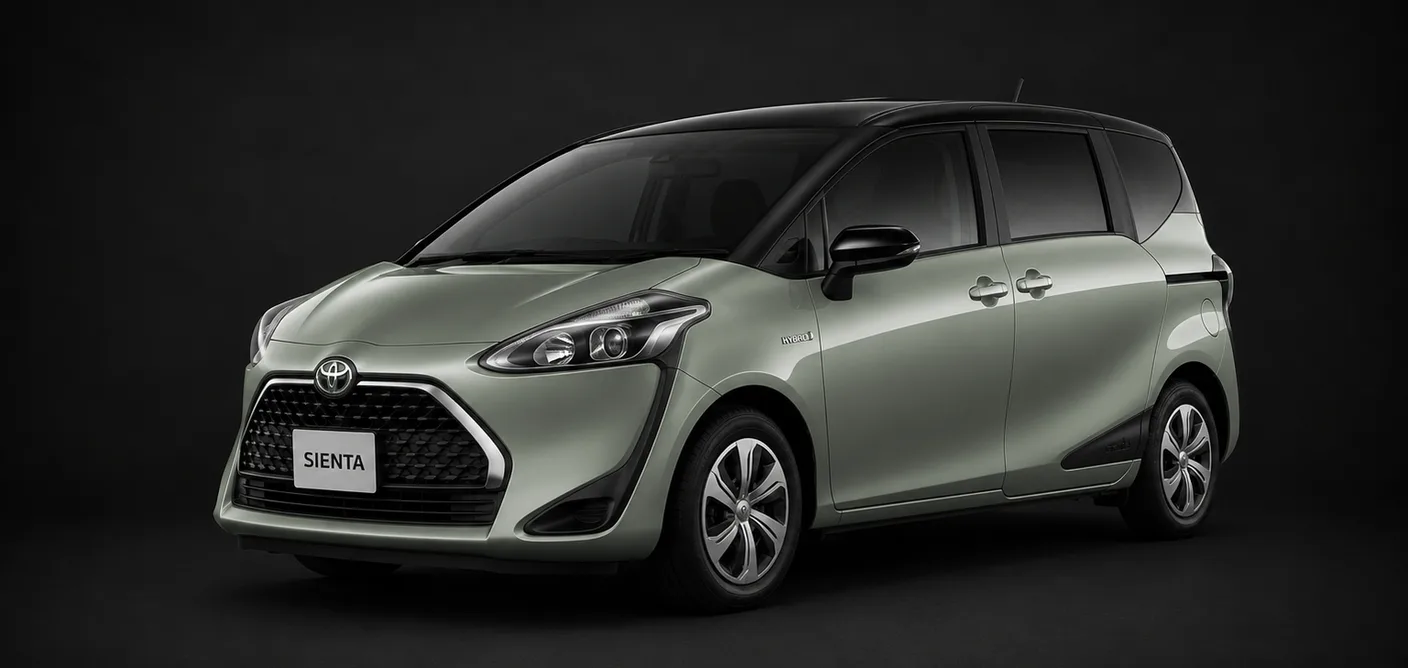
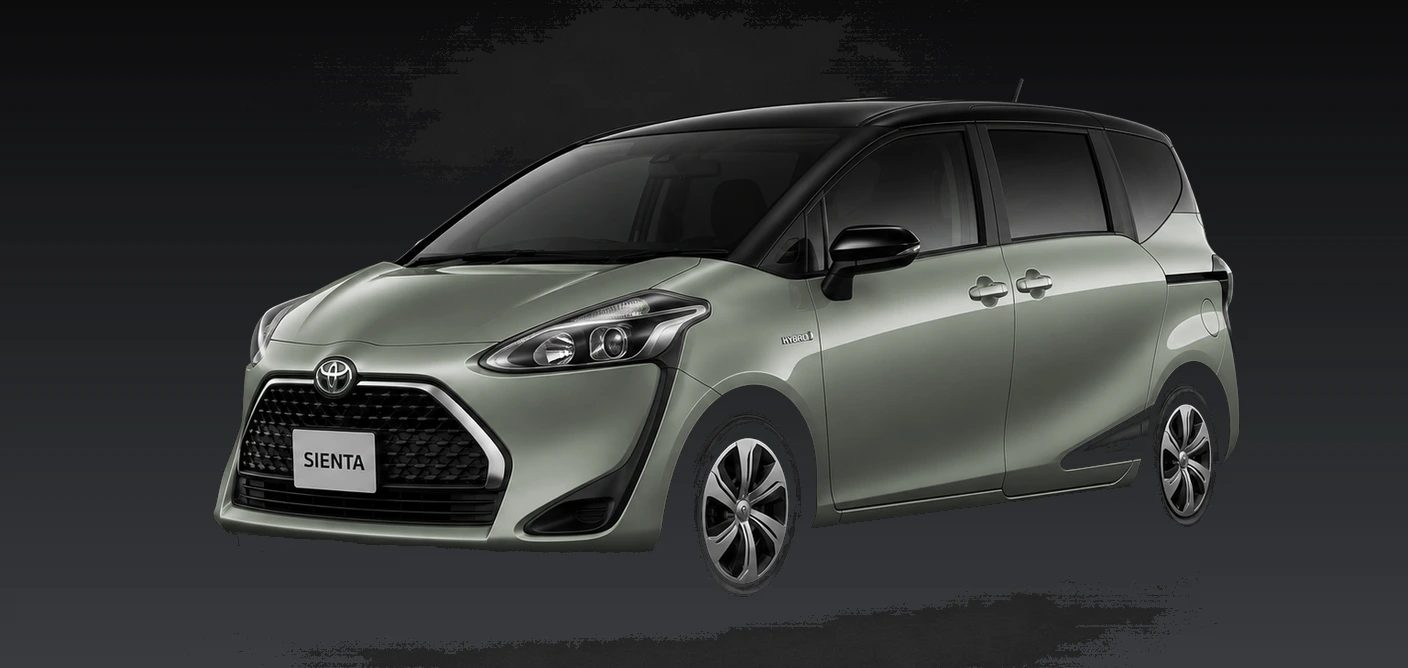
feat: quality pass - unify SOLIO/SIENTA/DELICA studio backgrounds, Home intro copy, maker heading weight, Timeline NOW badge
- SOLIO (4 gens) and SIENTA (3 gens): backgrounds were flat/near-black
  with no gradient, unlike VOXY/SERENA/STEPWGN's measured vertical
  brightening formula. Unified using border flood-fill to separate car
  from background (a plain per-pixel color threshold was tried first
  and corrupted the car body; reverted, replaced with flood-fill, which
  can't misclassify a pixel unless it's topologically connected to the
  border). Verified zero byte changes inside the protected car region
  on every file.
- DELICA gen1/gen2: same technique, background-only brightness lift
  (car pixels untouched, verified) per explicit follow-up instruction,
  since the real-photo background measured noticeably darker/flatter
  than VOXY's own.
- Home: added a one-line intro ("Explore every generation, side by
  side.") between the All Cars heading and count.
- Maker headings (TOYOTA/NISSAN/...): raised opacity, tightened
  tracking so the existing bold weight actually reads as bold instead
  of thin/airy.
- Timeline: added a persistent "NOW" badge on the actual latest-
  generation card, independent of aria-current (which follows whichever
  card is currently being viewed) -- keeps a cue for "this is current"
  even while browsing older generations.

Hero image unification (VOXY as baseline) was investigated but not
applied: background-only stats showed Delica/Sienta hero genuinely
darker than VOXY's, but Hero's atmospheric/fog lighting doesn't fit the
[…]

Changed region(s): [[0.0, 0.4192, 1.0, 1.0]]

diff --git a/src/cars/delica-d5.js b/src/cars/delica-d5.js
@@ -28,18 +28,29 @@
 // background photos (see git history on this block for the full
 // account of what each round got wrong). All of that is now moot: the
 // user supplied proper black-studio source photos directly
-// (デリカ初代.png / デリカ2代目.png), so gen1-2007/gen2-2019 are a pure
-// format conversion of those -- resized to fit the shared 1408x668
-// canvas by height (no crop; the source's 1.50:1 aspect is narrower
-// than the canvas's 2.11:1), letterboxed with the source's own edge
-// color, then WebP-encoded at a quality high enough to be visually
-// lossless. No background removal, no floor/shadow synthesis, no
-// masking, no noise, no color/level/tone changes of any kind -- per
-// explicit instruction, these two files are complete as supplied and
-// must not be re-edited. Do not resurrect the reconstruction approach
-// below for any future vehicle that already has a proper black-studio
-// source photo; it only applies when the source has the wrong
-// background and needs one built from nothing.
+// (デリカ初代.png / デリカ2代目.png), so gen1-2007/gen2-2019 started as a
+// pure format conversion of those -- resized to fit the shared
+// 1408x668 canvas by height (no crop; the source's 1.50:1 aspect is
+// narrower than the canvas's 2.11:1), letterboxed with the source's
+// own edge color, WebP-encoded at a visually-lossless quality. Do not
+// resurrect the reconstruction approach below for any future vehicle
+// that already has a proper black-studio source photo; it only applies
+// when the source has the wrong background and needs one built from
+// nothing.
+//
+// (9, 2026-08-01) The format conversion above was left completely
+// pixel-untouched per explicit instruction -- but measured against
+// VOXY's own background (edge-column sampling), Delica's real photo
+// background was noticeably darker and flatter (roughly half VOXY's
+// brightness, no vertical gradient), a real "different studio" gap.
+// Per updated explicit instruction, brightened the background ONLY
+// (same vertical gradient target as solio.js/sienta.js, same border-
+// flood-fill car/background separation -- see that file's comment for
+// the full technique writeup) -- car body pixels are provably
+// untouched (post-edit diff against the pre-round-9 file showed zero
+// byte changes inside the flood-fill-protected region). The car
+// photography itself (paint, reflections, shape) is still exactly as
+// supplied; only the black level/gradient behind it changed.
 //
 // annotations: re-derived (2026-08-01) against the new photos above --
 // the car sits smaller and differently centered in frame than the old

diff --git a/src/cars/solio.js b/src/cars/solio.js
@@ -10,6 +10,27 @@
 // change for any of the four generations was sourced with enough
 // confidence (date + concrete content) to publish -- a gap to close in a
 // future pass, not filled with invented history.
+//
+// gen1-4 images (2026-08-01): background unified with VOXY/SERENA/
+// STEPWGN's own measured studio formula -- those three, sampled at
+// pure-background edge columns, all showed a purely vertical (not
+// radial; left/right edges matched) brightening gradient from near-
+// black at the top to a moderate mid-gray at the bottom. SOLIO's own
+// background measured flat 0-24 at every row (no gradient at all),
+// which is what read as a different, cheaper-looking studio.
+// Car/background separation used border flood-fill (seed every border
+// pixel, grow through neighbors within a per-row color tolerance of a
+// guaranteed-background column), not a per-pixel color-distance
+// threshold -- the first attempt at this exact fix used a plain
+// threshold and it corrupted the car body (dark shadow/tint pixels
+// inside the silhouette matched the background tone by coincidence and
+// got overwritten). Flood fill can't make that mistake: a pixel only
+// counts as background if there's a continuous background-colored path
+// connecting it to the image border, so an isolated dark patch inside
+// the car is topologically unreachable even when its raw color matches.
+// Verified per image: a red-tinted mask preview showed the full car
+// silhouette protected before any pixel was touched, and a post-edit
+// diff confirmed zero byte changes inside the protected region.
 const generations = [
   {
     numeral: 'I',

diff --git a/src/home.css b/src/home.css
@@ -144,14 +144,27 @@ body { margin: 0; background: #0b0c0e; }
   margin: 0; font-family: 'Inter', sans-serif; font-size: clamp(22px, 4.5vw, 28px);
   font-weight: 600; letter-spacing: -.015em;
 }
+/* Sits between the heading and the live count -- same weight/size
+   register as .about-text (a quiet, secondary line) rather than the
+   heading's own display weight, so it reads as connective copy, not a
+   second title. */
+.all-cars-intro {
+  margin: 10px 0 0; max-width: 420px; font-weight: 300; font-size: 14.5px;
+  line-height: 1.6; opacity: .6; letter-spacing: .01em;
+}
 .all-cars-count {
-  margin: 8px 0 0; font-family: 'Inter', sans-serif; font-size: 12px; font-weight: 500;
+  margin: 10px 0 0; font-family: 'Inter', sans-serif; font-size: 12px; font-weight: 500;
   letter-spacing: .04em; opacity: .45;
 }
 .maker-groups { display: flex; flex-direction: column; gap: 40px; }
+/* .6 opacity + .16em tracking read as thin/airy despite the 700 weight --
+   wide tracking dilutes a bold face's own visual weight. Tightened
+   tracking and raised opacity (contrast, not a heavier font-weight)
+   for a denser, more premium mark -- still whisper-quiet next to the
+   photography, just no longer reading as fragile. */
 .maker-name {
   margin: 0 0 16px; font-family: 'Inter', sans-serif; font-size: 14px; font-weight: 700;
-  letter-spacing: .16em; text-transform: uppercase; opacity: .6;
+  letter-spacing: .12em; text-transform: uppercase; opacity: .78;
 }
 .maker-cars { display: grid; grid-template-columns: repeat(2, 1fr); gap: 12px; }
 .mini-card {

diff --git a/src/car-page.css b/src/car-page.css
@@ -120,6 +120,23 @@ body { margin: 0; background: #0b0c0e; }
 }
 .timeline-item[aria-current="true"] .timeline-thumb img { filter: grayscale(0) brightness(1.05) saturate(1.15); }
 
+/* A quiet, permanent marker for whichever card is the actual latest
+   production generation -- independent of aria-current (which tracks
+   the card currently being VIEWED and moves on click). Without this,
+   clicking back to an early generation dims the current one down to
+   the same unselected treatment as every other card, losing the "this
+   is where the story is now" cue entirely. Small enough to read as a
+   footnote on the photo, not a second headline. */
+.timeline-item[data-latest="true"] .timeline-thumb::after {
+  content: 'NOW';
+  position: absolute; top: 8px; right: 8px; z-index: 1;
+  padding: 3px 7px; border-radius: 20px;
+  font: 600 8px/1 'Inter', sans-serif; letter-spacing: .08em;
+  color: rgba(11,12,14,.85); background: rgba(244,243,240,.92);
+  opacity: .85; transition: opacity .35s;
+}
+.timeline-item[data-latest="true"][aria-current="true"] .timeline-thumb::after { opacity: 0; }
+
 /* Client-side fallback for a generation whose photo hasn't been placed
    yet (see withImageFallback in car-page.js) -- a quiet in-box label
    instead of a broken-image icon. Sits in the same three photo boxes

diff --git a/src/car-page.js b/src/car-page.js
@@ -168,6 +168,12 @@ function renderTimeline(generations, vehicleName) {
       btn.disabled = true
     } else if (index === generations.length - 1) {
       btn.setAttribute('aria-current', 'true')
+      // Distinct from aria-current, which moves to whichever card is
+      // being VIEWED as the user clicks through the timeline -- this
+      // marks whichever card is actually the latest/current production
+      // generation and never moves, so that card keeps a quiet cue even
+      // once browsing an older one has dimmed it back down.
+      btn.dataset.latest = 'true'
     }
     btn.innerHTML = `
       <span class="timeline-thumb"><img src="${gen.image}" alt="${gen.era} ${vehicleName}" loading="lazy" decoding="async" /></span>

diff --git a/index.html b/index.html
@@ -54,6 +54,12 @@
         <div class="all-cars-header fade-in">
           <p class="section-eyebrow">ALL CARS</p>
           <h2 class="all-cars-heading">Browse All Models</h2>
+          <!-- Bridges the heading and the grid -- without it, "Browse All
+               Models" drops straight into thumbnails with no sense of what
+               looking through them is actually for. Same brand-voice
+               English register as "Explore Cars"/the eyebrow labels, not
+               functional copy. -->
+          <p class="all-cars-intro">Explore every generation, side by side.</p>
           <p class="all-cars-count" id="all-cars-count"></p>
         </div>
         <div class="maker-groups" id="maker-groups"></div>

diff --git a/src/cars/sienta.js b/src/cars/sienta.js
@@ -11,6 +11,12 @@
 // publish this session (gen3 is additionally still too new to have one at
 // all) -- a gap to close in a future pass, not filled with invented
 // history.
+//
+// gen1-3 images (2026-08-01): background unified with VOXY/SERENA/
+// STEPWGN's studio formula (same pass, same technique -- see the
+// matching comment in solio.js for the full account, including why a
+// naive per-pixel threshold corrupted the car body on the first
+// attempt and had to be reverted in favor of border flood-fill).
 const generations = [
   {
     numeral: 'I',
